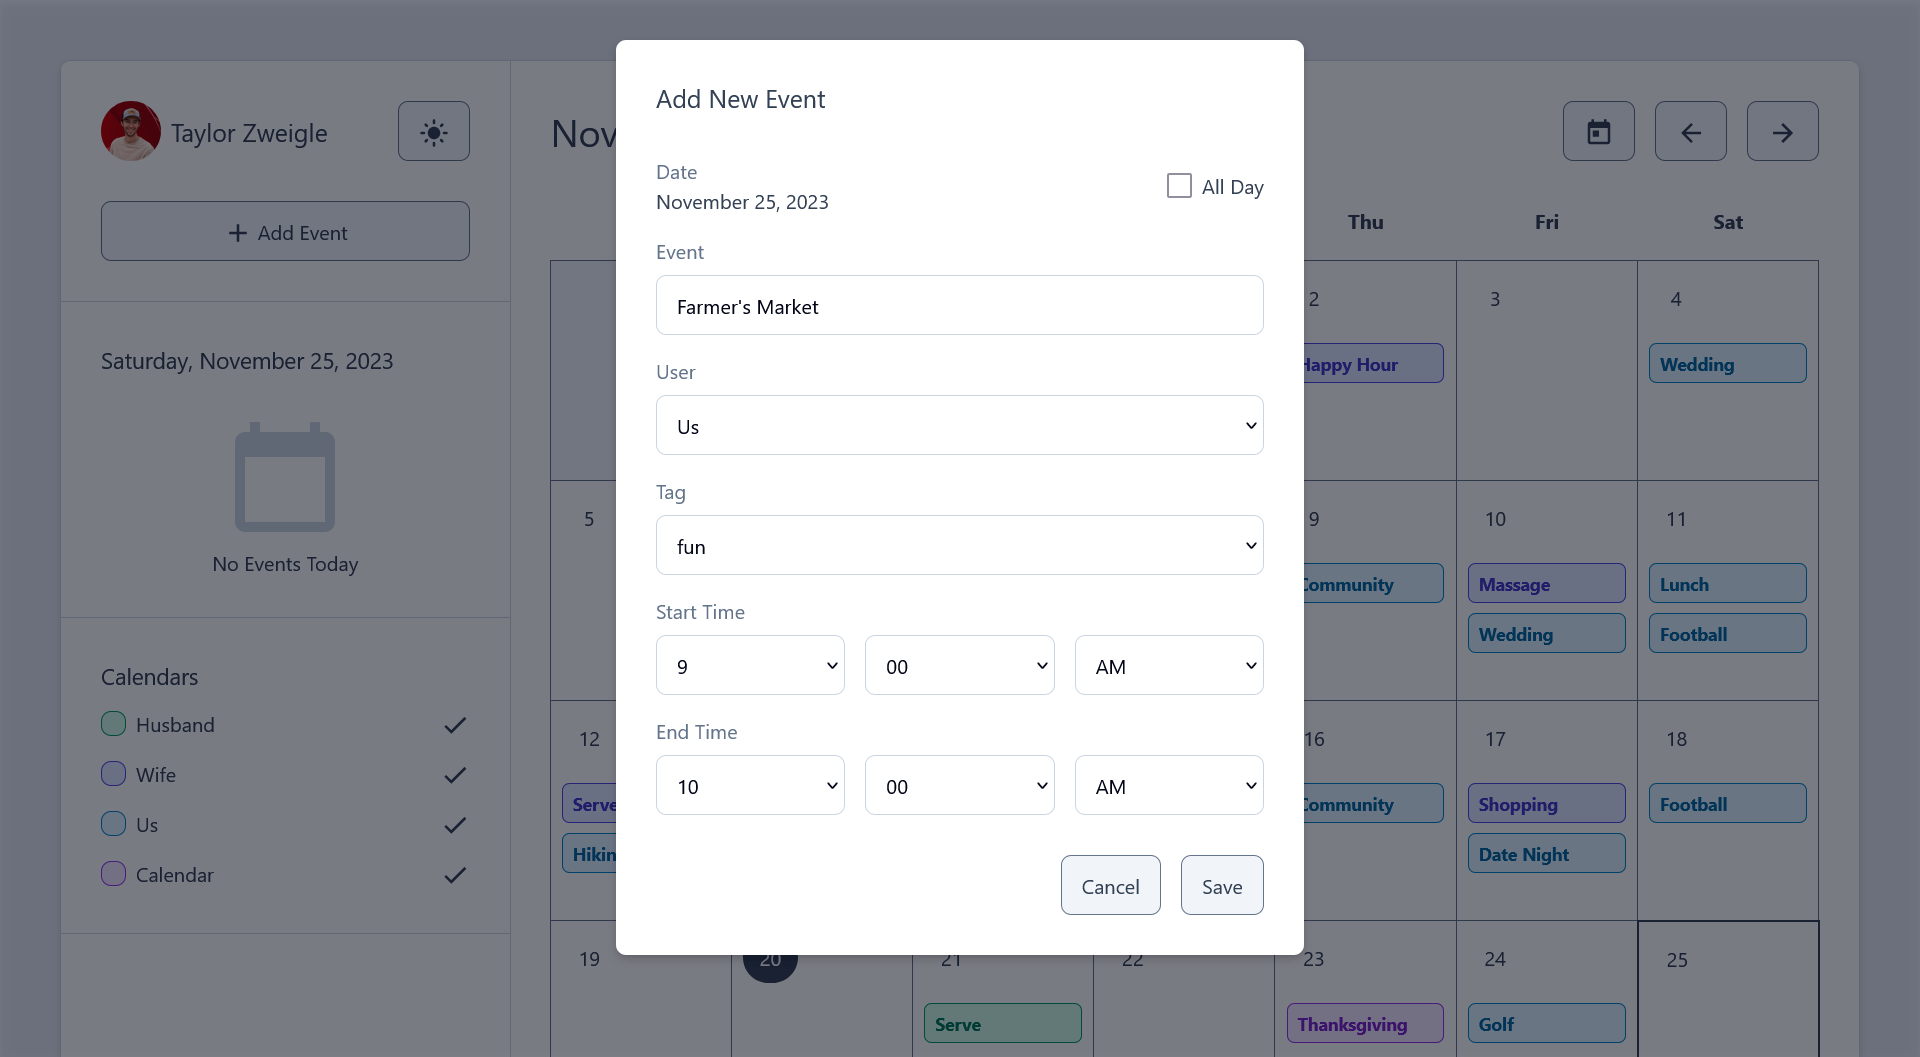
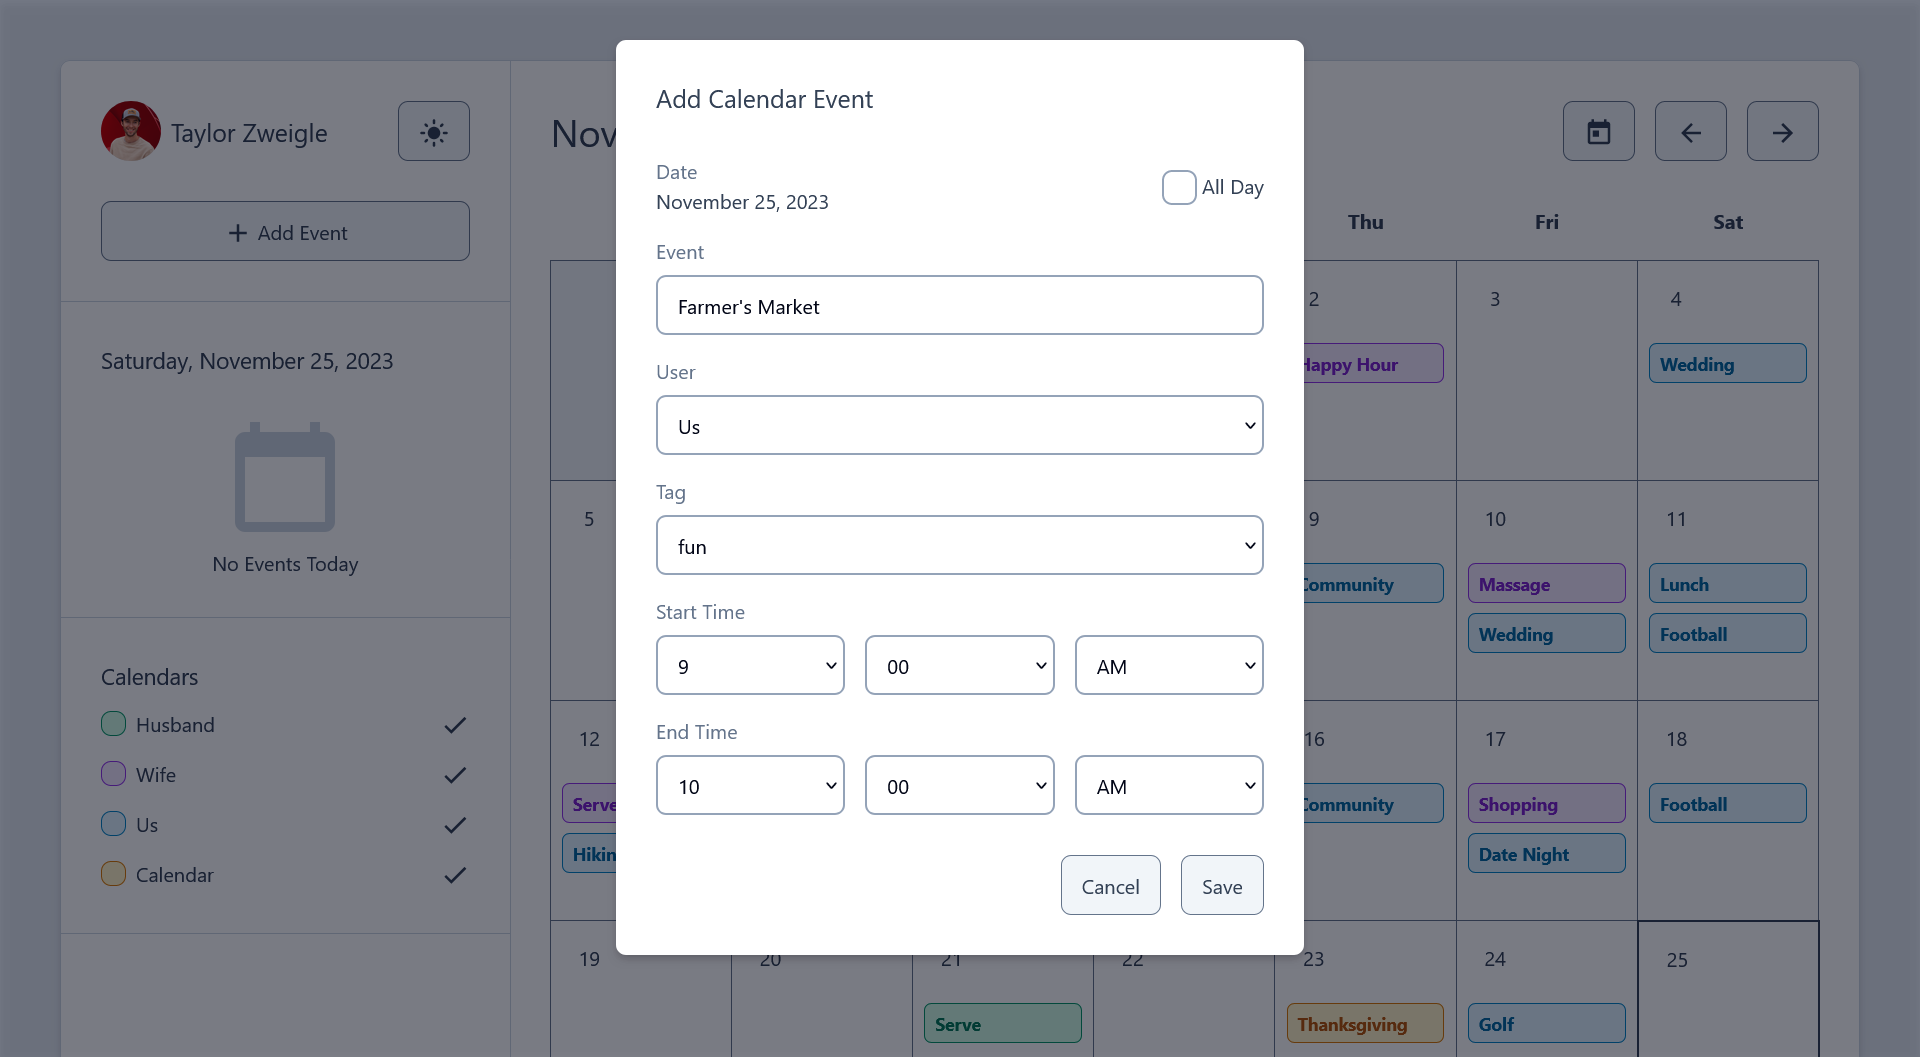
re-uploaded readme images

diff --git a/client/src/core/textInput/TextInput.jsx b/client/src/core/textInput/TextInput.jsx
@@ -14,7 +14,7 @@ const TextInput = ({ label, value, error, onChange }) => {
         id={label}
         value={value}
         onChange={onChange}
-        className="bg-white dark:bg-slate-950 border border-slate-400 dark:border-slate-600 text-slate-950 dark:text-white text-md w-full rounded-lg px-4 h-12"
+        className="bg-white dark:bg-slate-950 border-2 border-slate-400 dark:border-slate-600 text-slate-950 dark:text-white text-md w-full rounded-lg px-4 h-12"
       />
       {error && (
         <Typography variant="body2" color="text-red-500 dark:text-red-500">

diff --git a/client/src/core/selectInput/SelectInput.jsx b/client/src/core/selectInput/SelectInput.jsx
@@ -10,7 +10,7 @@ const SelectInput = ({ label, value, error, items, showLabel, onChange }) => {
         id={label}
         value={value}
         onChange={onChange}
-        className="bg-white dark:bg-slate-950 border border-slate-400 dark:border-slate-600 text-slate-950 dark:text-white text-md w-full rounded-lg px-4 h-12"
+        className="bg-white dark:bg-slate-950 border-2 border-slate-400 dark:border-slate-600 text-slate-950 dark:text-white text-md w-full rounded-lg px-4 h-12"
       >
         {items.map((item) => (
           <option key={item} value={item}>

diff --git a/README.md b/README.md
@@ -13,8 +13,9 @@ The app allows for navigating to the previous and next months using arrow button
 
 ### Add Event
 
-![Create_Event](https://github.com/taylorzweigle/Schedule-App/blob/main/img/Schedule_App_Add_Event_Dark.png)
-![Create_Event](https://github.com/taylorzweigle/Schedule-App/blob/main/img/Schedule_App_Add_Event_Light.png)
+| Dark Theme                                                                                                   | Light Theme                                                                                                   |
+| ------------------------------------------------------------------------------------------------------------ | ------------------------------------------------------------------------------------------------------------- |
+| ![Create_Event](https://github.com/taylorzweigle/Schedule-App/blob/main/img/Schedule_App_Add_Event_Dark.png) | ![Create_Event](https://github.com/taylorzweigle/Schedule-App/blob/main/img/Schedule_App_Add_Event_Light.png) |
 
 ### View Event
 
